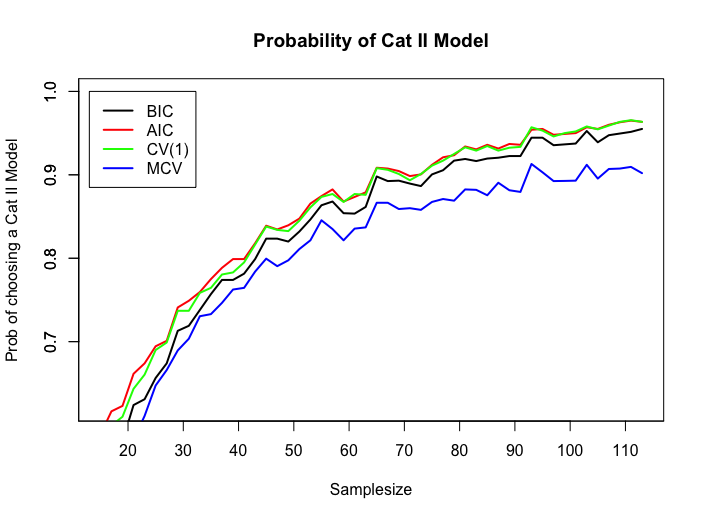
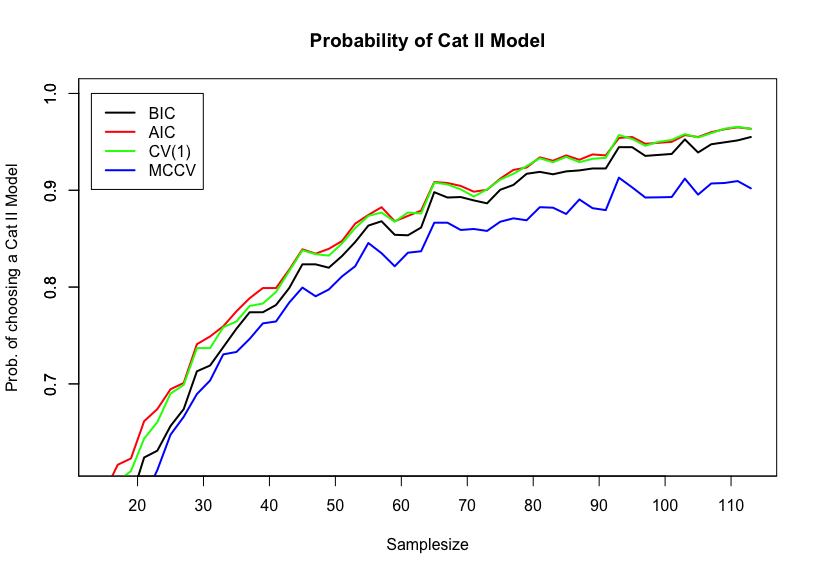
Plot für Simulation 2 ergänzt

diff --git a/Beamer/Presentation.tex b/Beamer/Presentation.tex
@@ -367,9 +367,14 @@ y =\begin{pmatrix}
 %Moreover one can see that all methods behave similary for ceratin shocs in the datastructure
 %%Christoph%%
 
+\begin{frame}
+\centering
+\includegraphics[width=1.2\textheight]{Simulation2.png}
+\end{frame}
 %As we allready claimed out: For n large enought the Prob of choosing a Cat I model goes to Zero. Therfor we just can ignore all these models by choosing n large. 
 %In the next simulation we concentrate on the probabilty of choosing a model of certain size within Cat II
 %%Christoph%%
+
 \begin{frame}
 \frametitle{Thanks for your attention }
 J. Scherer: s3jnsche$@$uni-bonn.de\\
